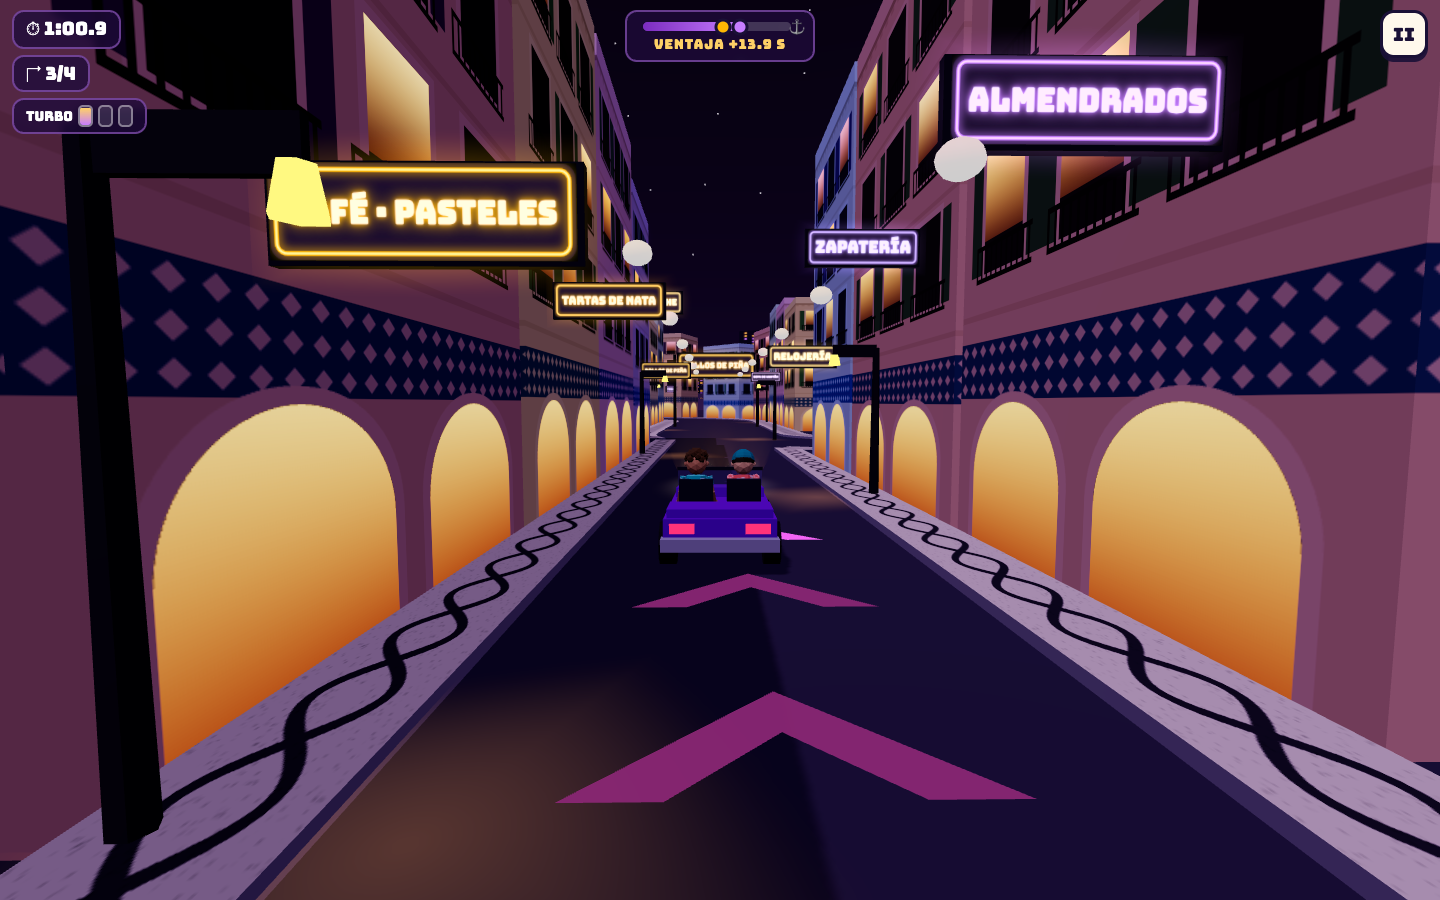
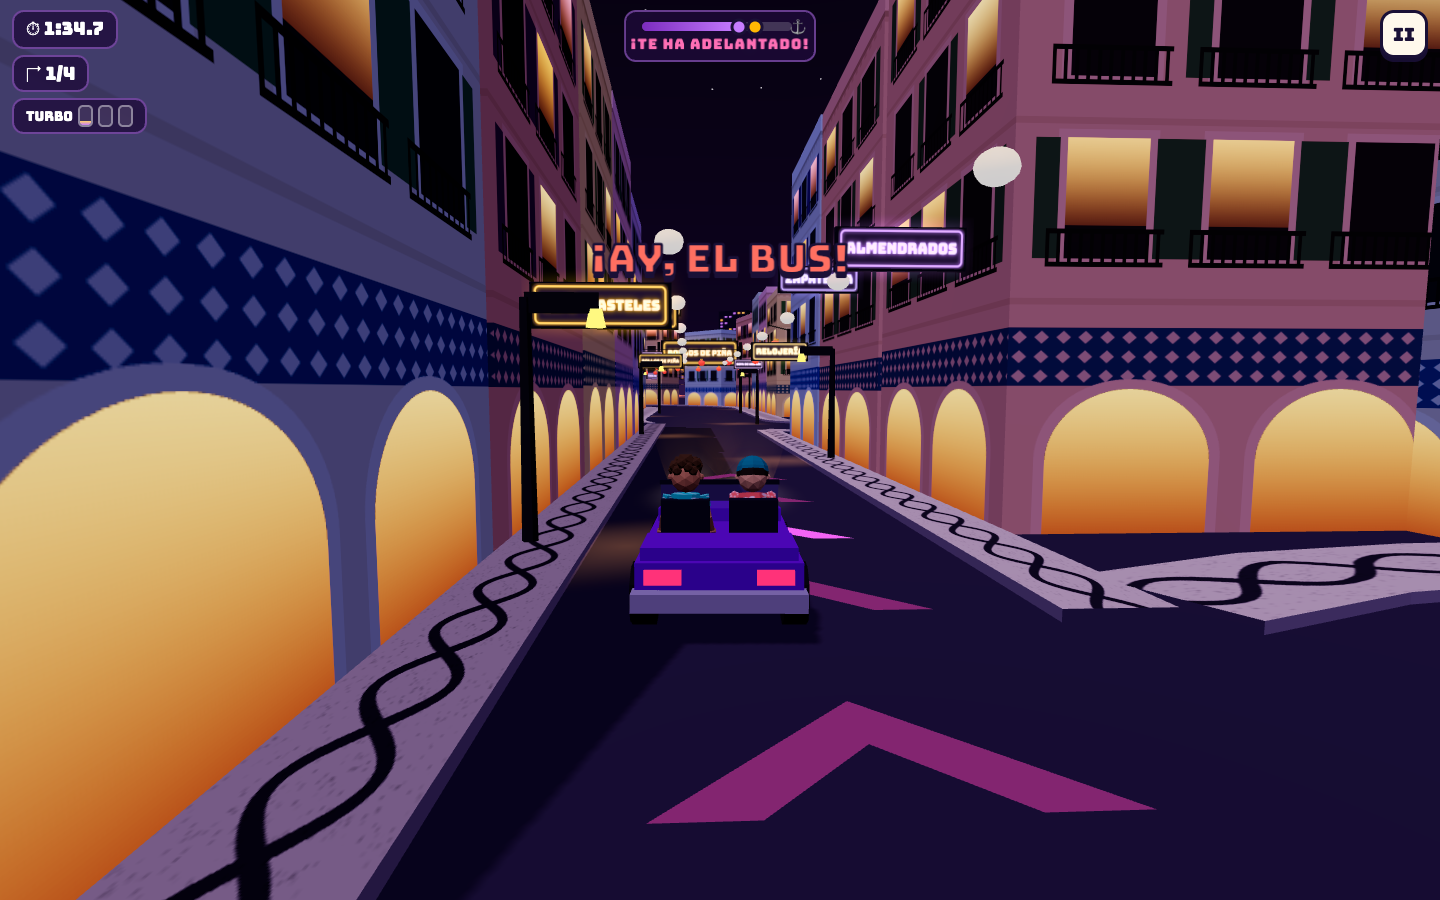
Macao ronda 2: burbuja de Zhou con franja propia, iglesia low-poly, menos partículas, luces sobre el agua y farolillos

diff --git a/src/stages/macao/mundo.js b/src/stages/macao/mundo.js
@@ -118,20 +118,20 @@ export function buildWorld({ scene, rng, main, kindAt, shortcuts, events, q, mak
     c.fillStyle = '#000'; c.fillRect(0, 0, W, H);
     for (let i = 0; i < 70; i++) { const y = Math.random() * H, x = Math.random() * W, w = 6 + Math.random() * 26; const gr = c.createLinearGradient(x, 0, x + w, 0); const col = Math.random() < 0.75 ? '255,176,60' : '199,125,255'; gr.addColorStop(0, `rgba(${col},0)`); gr.addColorStop(0.5, `rgba(${col},${0.5 + Math.random() * 0.5})`); gr.addColorStop(1, `rgba(${col},0)`); c.fillStyle = gr; c.fillRect(x, y, w, 2 + Math.random() * 2); }
   }); shimTex.wrapS = shimTex.wrapT = THREE.RepeatWrapping;
-  const shimMat = new THREE.MeshBasicMaterial({ map: shimTex, transparent: true, opacity: 0.85, blending: THREE.AdditiveBlending, depthWrite: false, toneMapped: false, side: THREE.DoubleSide });
+  const shimMat = new THREE.MeshBasicMaterial({ map: shimTex, transparent: true, opacity: 1, fog: false, blending: THREE.AdditiveBlending, depthWrite: false, toneMapped: false, side: THREE.DoubleSide });
   {
     const bm = new Array(main.n + 1).fill(0).map((_, i) => kindAt(main.dist[i]) === 'bridge' && main.pts[i].y > 1);
     for (const sd of [-1, 1]) {
       const pos = [], uv = [], idx = [];
       for (let i = 0; i <= main.n; i++) {
         const p = main.pts[i], nr = main.nors[i];
-        for (const [lat, u] of [[sd * (w2 + 1), 0], [sd * (w2 + 12), 1]]) { pos.push(p.x + nr.x * lat, WATER_Y + 0.05, p.z + nr.z * lat); uv.push(u, main.dist[i] / 10); }
+        for (const [lat, u] of [[sd * (w2 + 1), 0], [sd * (w2 + 34), 1]]) { pos.push(p.x + nr.x * lat, WATER_Y + 0.05, p.z + nr.z * lat); uv.push(u, main.dist[i] / 10); }
         if (i < main.n && bm[i] && bm[i + 1]) { const k = i * 2; idx.push(k, k + 2, k + 1, k + 1, k + 2, k + 3); }
       }
       const gg = new THREE.BufferGeometry(); gg.setAttribute('position', new THREE.Float32BufferAttribute(pos, 3)); gg.setAttribute('uv', new THREE.Float32BufferAttribute(uv, 2)); gg.setIndex(idx);
       const m = new THREE.Mesh(gg, shimMat); m.renderOrder = 1; scene.add(m);
     }
-    anim.push((t) => { shimTex.offset.set(Math.sin(t * 0.7) * 0.05, t * 0.06); shimMat.opacity = 0.75 + Math.sin(t * 3.1) * 0.1; });
+    anim.push((t) => { shimTex.offset.set(Math.sin(t * 0.7) * 0.05, t * 0.06); shimMat.opacity = 0.85 + Math.sin(t * 3.1) * 0.15; });
   }
 
   // ── pilares de los puentes y farolas ──
@@ -571,6 +571,17 @@ export function buildWorld({ scene, rng, main, kindAt, shortcuts, events, q, mak
       tmp.rotation.set(0, rng() * 3, 0); tmp.scale.set(rng.range(50, 130), rng.range(70, 320), rng.range(50, 110)); tmp.updateMatrix(); im.setMatrixAt(i, tmp.matrix);
     }
     im.frustumCulled = false; scene.add(im);
+    // reflejos del skyline en el agua: columnas de luz que rielan hacia la ciudad
+    const refl = new THREE.InstancedMesh(new THREE.PlaneGeometry(1, 1).rotateX(-Math.PI / 2).translate(0, 0, 0.5), new THREE.MeshBasicMaterial({ map: shimTex, transparent: true, opacity: 0.9, blending: THREE.AdditiveBlending, depthWrite: false, fog: false, toneMapped: false }), n);
+    const m4 = new THREE.Matrix4(), q4 = new THREE.Quaternion(), s4 = new THREE.Vector3(), p4 = new THREE.Vector3();
+    for (let i = 0; i < n; i++) {
+      im.getMatrixAt(i, m4); m4.decompose(p4, q4, s4);
+      tmp.position.set(p4.x, WATER_Y + 0.06, p4.z);
+      tmp.rotation.set(0, Math.atan2(center.x - p4.x, center.z - p4.z), 0);
+      tmp.scale.set(s4.x * 0.8, 1, Math.hypot(center.x - p4.x, center.z - p4.z) * 0.85); tmp.updateMatrix(); refl.setMatrixAt(i, tmp.matrix);
+      refl.setColorAt(i, col.set(i % 3 ? '#ffb347' : '#c77dff'));
+    }
+    refl.frustumCulled = false; refl.renderOrder = 1; scene.add(refl);
   }
   {
     const n = 700, pos = new Float32Array(n * 3);
